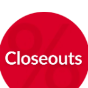
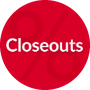
fix(categories): regenerate exact 100% round circles with anti-aliased alpha masks and fix CSS clipping

diff --git a/src/app/page.module.css b/src/app/page.module.css
@@ -224,29 +224,29 @@
 }
 
 .categoryCircleWrap {
-  width: 96px;
-  height: 96px;
+  width: 92px;
+  height: 92px;
   border-radius: 50%;
   overflow: hidden;
-  background-color: #f3f4f6;
+  background-color: transparent;
   display: flex;
   align-items: center;
   justify-content: center;
   position: relative;
-  box-shadow: 0 2px 8px rgba(0, 0, 0, 0.05);
+  box-shadow: 0 3px 10px rgba(0, 0, 0, 0.07);
   transition: transform 0.25s cubic-bezier(0.16, 1, 0.3, 1), box-shadow 0.25s ease;
-  border: 1px solid rgba(0, 0, 0, 0.04);
 }
 
 .categoryCircleItem:hover .categoryCircleWrap {
-  transform: translateY(-4px) scale(1.05);
-  box-shadow: 0 10px 22px -5px rgba(0, 0, 0, 0.16);
+  transform: translateY(-4px) scale(1.06);
+  box-shadow: 0 10px 24px -4px rgba(0, 0, 0, 0.18);
 }
 
 .categoryCircleImg {
   width: 100%;
   height: 100%;
-  object-fit: cover;
+  object-fit: contain;
+  border-radius: 50%;
   display: block;
 }
 
